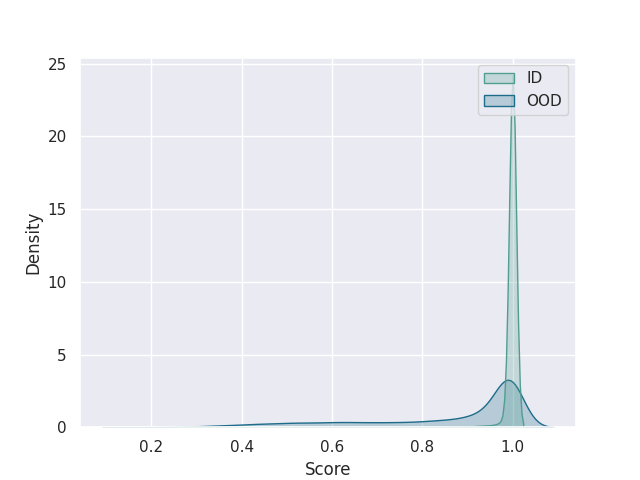
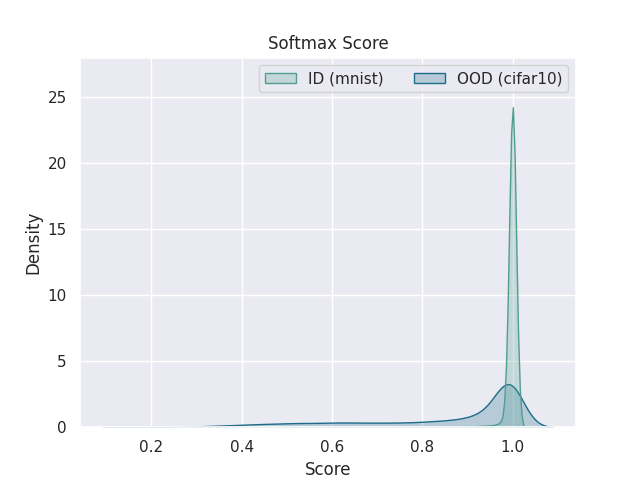
updated plots

diff --git a/code/analyze_scores.py b/code/analyze_scores.py
@@ -4,6 +4,8 @@ import numpy as np
 import pandas as pd
 from config import *
 
+# Usage: python3 analyze_scores.py -i mnist -o cifar10 -s energy
+
 parser = argparse.ArgumentParser()
 parser.add_argument("--id", "-i", help = "In-Distribution dataset name", required = True)
 parser.add_argument("--ood", "-o", help = "Out-Of-Distribution dataset name", required = True)
@@ -22,6 +24,7 @@ if __name__ == "__main__":
     scores_o = np.load(f"{PATH_RES}/raw/{dname_i}_{dname_o}_{sname}_ood.npy")
 
     # Denisty plots for scores
-    utils.densityPlot(scores_i, scores_o, f"{PATH_PLT}/{dname_i}_{dname_o}_{sname}_density.png")
+    data = {f"ID ({dname_i})" : scores_i, f"OOD ({dname_o})" : scores_o}
+    utils.densityPlot(data, title = f"{sname.capitalize()} Score", path_save = f"{PATH_PLT}/{dname_i}_{dname_o}_{sname}_density.png")
 
     # TBD: Metrics for scores (FPR95, AUROC, AUPR)

diff --git a/code/utils.py b/code/utils.py
@@ -71,8 +71,14 @@ def printMetrics(m):
     mt = " | ".join([f"{k} = {m[k]:.4f}" for k in keys])
     print(mt)
 
-def densityPlot(l_id, l_ood, path_save = None):
-    sns.kdeplot(data = {"ID" : np.array(l_id), "OOD" : np.array(l_ood)}, fill = True, alpha = 0.25, palette = "crest")
+def densityPlot(data, title = None, path_save = None):
+    ax = sns.kdeplot(data = data, fill = True, alpha = 0.25, palette = "crest")
+    sns.move_legend(ax, ncol = 2, loc = "best")
+    if title is not None:
+        plt.title(title)
+    ymin, ymax = ax.get_ylim()
+    ymax = ymax + 0.1*ymax
+    plt.ylim([ymin, ymax])
     plt.xlabel("Score")
     if path_save is not None:
         plt.savefig(path_save)

diff --git a/README.md b/README.md
@@ -47,3 +47,6 @@ Root directory structure:
 - Add a colab notebook to this folder, mount drive
 - `cd` to created folder and run the `.py` scripts from notebook command line
 - Sync to and from Drive when needed
+
+## References
+- [Official Implementation](https://github.com/wetliu/energy_ood) (however, our code differs a lot from it)
